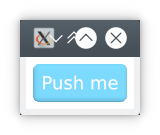
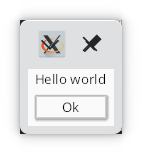
Update hello

diff --git a/examples/hello.rs b/examples/hello.rs
@@ -1,10 +1,7 @@
-use kas::widgets::{TextButton, Window};
+use kas::widgets::dialog::MessageBox;
 
-fn main() -> Result<(), kas::shell::Error> {
-    env_logger::init();
-
-    let content = TextButton::new("Push me");
-    let window = Window::new("Hello", content);
+fn main() -> Result<(), Box<dyn std::error::Error>> {
+    let window = MessageBox::new("Message", "Hello world");
 
     let theme = kas::theme::FlatTheme::new();
     kas::shell::Toolkit::new(theme)?.with(window)?.run()

diff --git a/src/hello.md b/src/hello.md
@@ -2,17 +2,14 @@
 
 ![Hello](screenshots/hello.png)
 
-Okay, that's not "hello world". Lets do something *slightly* more fun: a push button.
+Lets get started with a simple message box.
 [Source](https://github.com/kas-gui/tutorials/blob/master/examples/hello.rs).
 
 ```rust
-use kas::widgets::{TextButton, Window};
+use kas::widgets::dialog::MessageBox;
 
-fn main() -> Result<(), kas::shell::Error> {
-    env_logger::init();
-
-    let content = TextButton::new("Push me");
-    let window = Window::new("Hello", content);
+fn main() -> Result<(), Box<dyn std::error::Error>> {
+    let window = MessageBox::new("Message", "Hello world");
 
     let theme = kas::theme::FlatTheme::new();
     kas::shell::Toolkit::new(theme)?.with(window)?.run()
@@ -23,68 +20,21 @@ fn main() -> Result<(), kas::shell::Error> {
 cargo run --example hello
 ```
 
-Hopefully that is clear enough? Let me explain anyway:
+Lets start from the bottom up...
 
--   our `main` function may fail with the `kas::shell::Error` type; `Toolkit::new`
-    and `Toolkit::with` can fail (the `?` "try" operator)
--   we initialise a logger, [`env_logger`] (optional,
-    but lets us get useful messages; try setting the environment variable
-    `RUST_LOG=kas=info` or `trace` before running the example)
--   we construct a `TextButton` and a `Window` around that
--   we use the `FlatTheme` (with default colours)
--   we initialise the toolkit with our theme, add our window, and run it
+`kas::shell::Toolkit` is the "shell", providing bindings to windowing and
+graphics functionality (at the time of writing, via Winit and WGPU).
+One *could* write their own shell (e.g. to embed KAS), but that would be an
+advanced topic (and breaking new ground).
 
-Note that `Toolkit::run` does not return. It is in fact a wrapper around
-[`winit::event_loop::EventLoop::run`], which does not return.
-By default, the program will exit after all windows have closed.
+High-level drawing and sizing is handled by a "theme", which we provide to the
+toolkit. Writing a custom theme is another advanced (but better tested) topic.
 
-Also note that `kas` is mostly just a wrapper crate. We *could* instead import
-widgets from `kas_widgets`, the theme from `kas_theme` and `Toolkit` from
-`kas_wgpu`. We *could* even write our own theme and/or shell instead of using
-`kas_theme` and/or `kas_wgpu`, though we have little reason to.
+[`Toolkit::with`] expects a `dyn` [`Window`] object; we use [`MessageBox`].
 
-## Event handling
-
-You may have noticed that the button used above doesn't *do* anything. Lets fix
-that.
-
-If you look at the [`TextButton`] docs, you'll notice that it has an `on_push`
-method, allowing a closure to be set as a "push" event handler. This closure
-must have the following type:
-```ignore
-F: Fn(&mut Manager<'_>) -> Option<M> + 'static
-```
-In other words, it takes a reference to the [`Manager`] and returns an optional
-*message* of type `M`. We'll come back to messages later; for now we can just
-return `None` — well, we could if type inference worked, but since `None` could
-be an option of any type we have to specify that we want `VoidMsg`:
-```rust
-# use kas::prelude::*;
-# use kas::widgets::TextButton;
-let content = TextButton::new("Push me").on_push::<VoidMsg, _>(|_| {
-    println!("Hello!");
-    None
-});
-```
-
-But let's not just print to the command-line: lets use the [`Manager`] to open
-a message dialog!
-```rust
-# use kas::prelude::*;
-# use kas::widgets::{MessageBox, TextButton};
-let content = TextButton::new("&Push me").on_push::<VoidMsg, _>(|mgr| {
-    let mbox = MessageBox::new("Message", "You pushed the button.");
-    mgr.add_window(Box::new(mbox));
-    None
-});
-```
-
-One final note: did you see we put an ampersand in `"&Push me"`? Try holding
-`Alt` and pressing `P` when you run the example:
-
-```sh
-cargo run --example hello-handler
-```
+Finally, [`Toolkit::run`] starts our UI. This method does not return (it uses
+[`winit::event_loop::EventLoop::run`]).
+The program will exit after all windows have closed.
 
 [`env_logger`]: https://docs.rs/env_logger
 [`winit::event_loop::EventLoop::run`]: https://docs.rs/winit/0.24/winit/event_loop/struct.EventLoop.html#method.run
